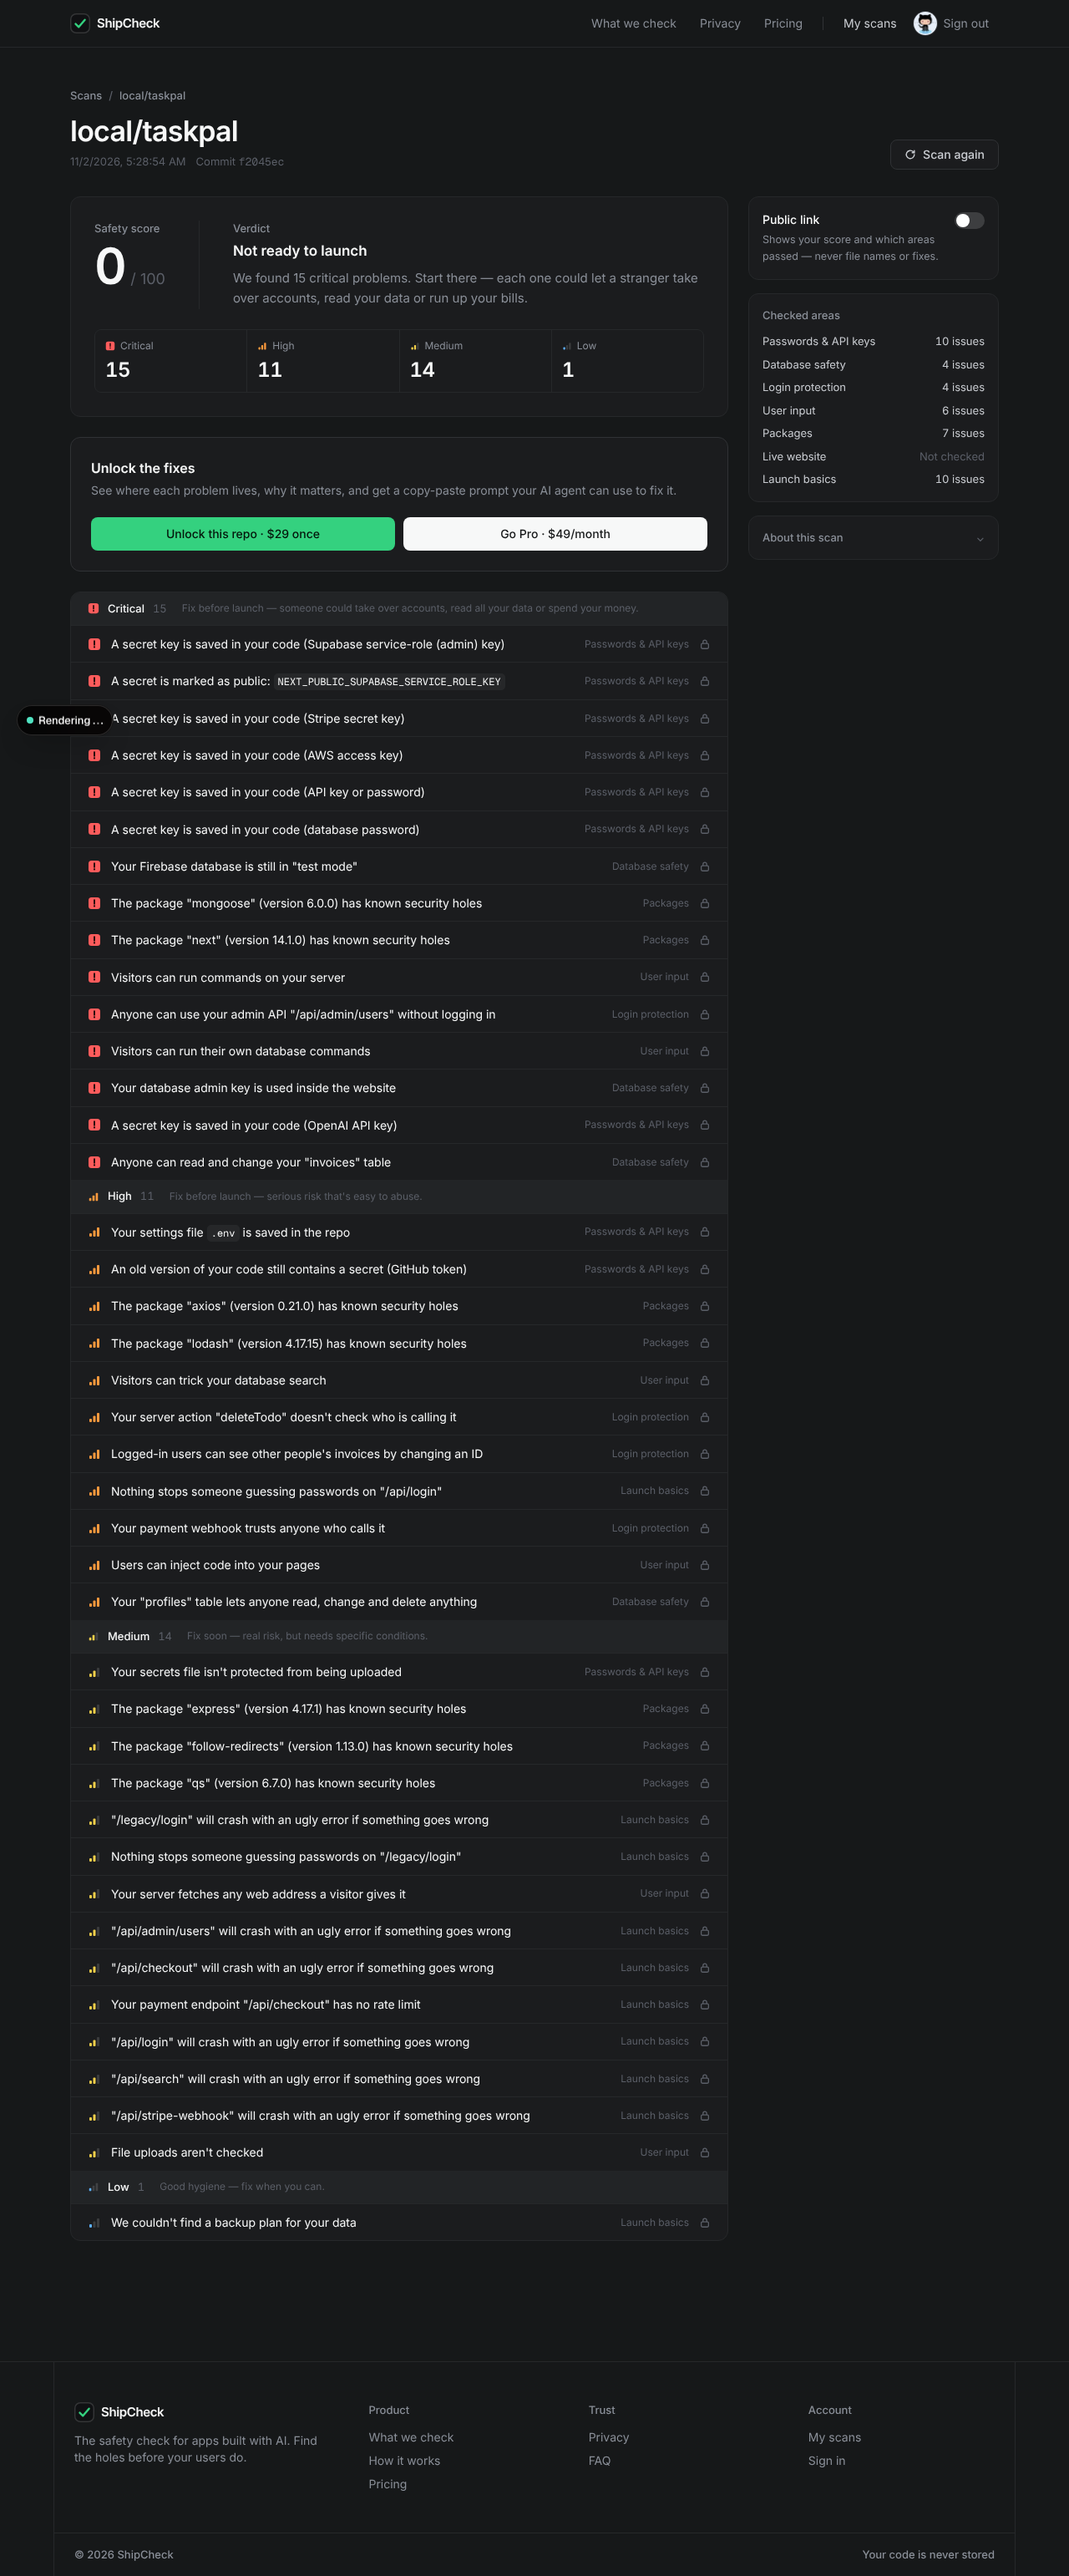
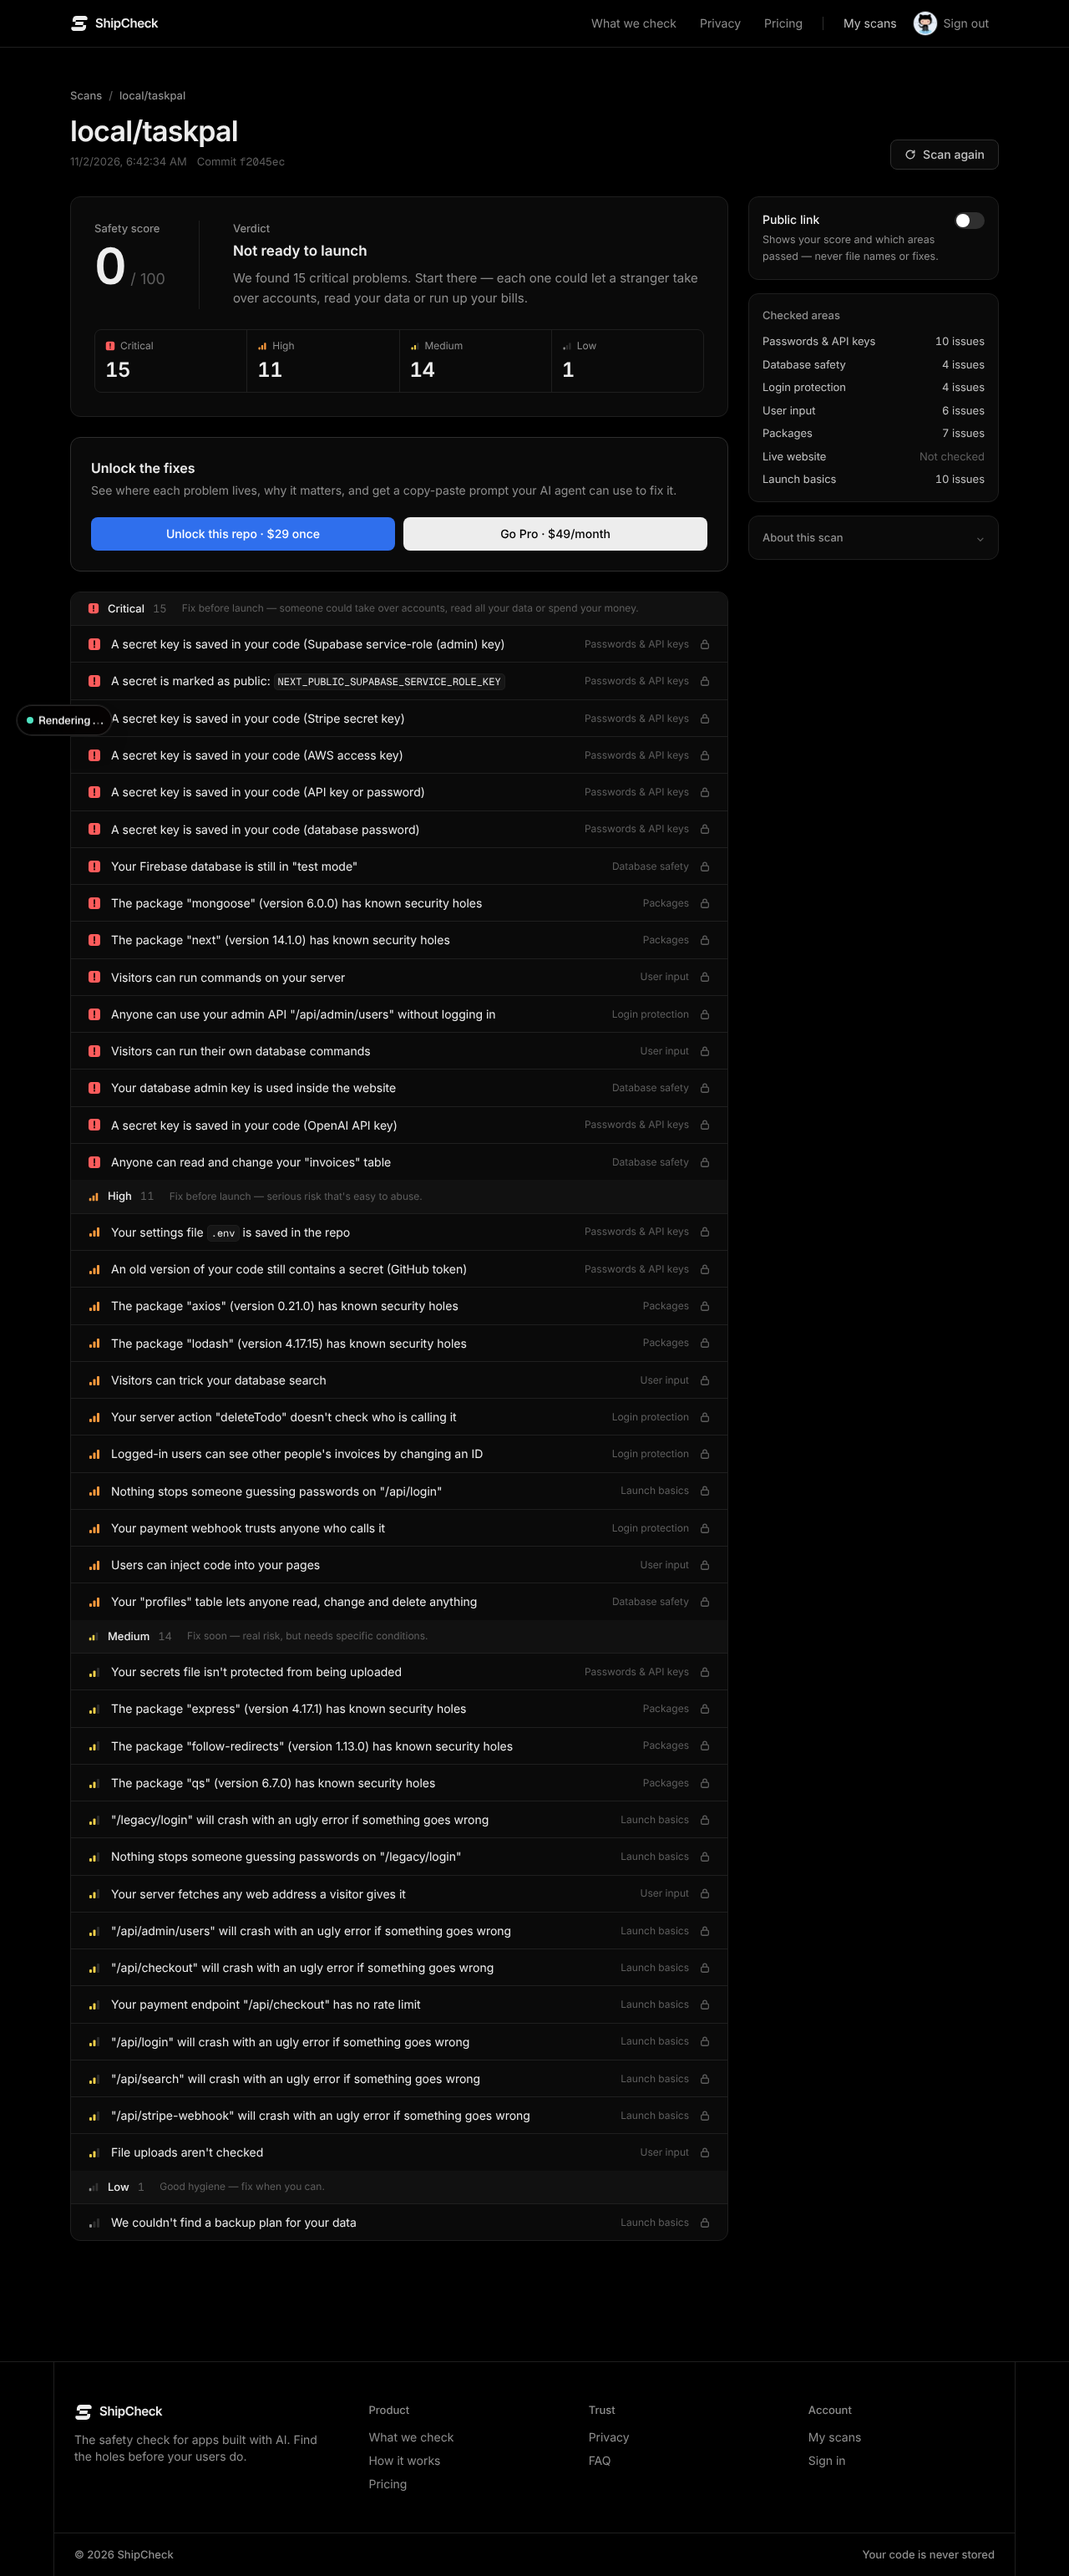
Black background with a cobalt accent
Canvas is now #000 with cards at #0a0a0a, nested boxes at #111 and
#1f1f1f hairlines (flush surfaces, no shadows). The green accent becomes
cobalt #2f6fed (white button text, 4.5:1) with #6ea1ff for focus rings;
Low severity turns neutral gray so it can't be mistaken for the accent.
Brand assets regenerated on black.

Claude-Session: https://claude.ai/code/session_018o5CNqjsf8rTVHTJeRiaFG

diff --git a/src/app/globals.css b/src/app/globals.css
@@ -6,30 +6,31 @@
  * severity colours mean severity. No decorative glows or gradients.
  */
 :root {
-  --canvas: #161819;
+  --canvas: #000000;
   color-scheme: dark;
 }
 
 @theme inline {
-  /* Surfaces sampled from Linear: cards sit almost flush with the page and are
-     separated by hairlines, not by contrast or shadow. Nested boxes go slightly
-     lighter, never darker. */
-  --color-canvas: #161819;
-  --color-panel: #1b1c1e;
-  --color-panel-2: #222426;
-  --color-panel-3: #2a2c2e;
-  --color-line: #26282a;
-  --color-line-2: #303235;
-  --color-ink: #f7f8f8;
-  --color-ink-2: #c9ccd1;
-  --color-ink-3: #8a8f98;
-  --color-ink-4: #5b5f68;
-  --color-signal: #34d17f;
-  --color-signal-2: #27b56b;
+  /* Black canvas; cards lift only a hair off it and are separated by hairlines
+     (the Vercel/Linear model). Nested boxes go slightly lighter, never darker.
+     Accent is cobalt blue — reserved for the primary action, focus and toggles. */
+  --color-canvas: #000000;
+  --color-panel: #0a0a0a;
+  --color-panel-2: #111111;
+  --color-panel-3: #171717;
+  --color-line: #1f1f1f;
+  --color-line-2: #2e2e2e;
+  --color-ink: #ededed;
+  --color-ink-2: #c2c2c2;
+  --color-ink-3: #8f8f8f;
+  --color-ink-4: #5e5e5e;
+  --color-accent: #2f6fed;
+  --color-accent-hover: #4380f5;
+  --color-accent-ink: #6ea1ff;
   --color-crit: #ff5c5c;
   --color-high: #ff9a3d;
   --color-med: #f2cf4a;
-  --color-low: #5eb0ff;
+  --color-low: #8f8f8f;
   --font-sans: var(--font-inter), ui-sans-serif, system-ui, sans-serif;
   --font-mono: var(--font-geist-mono), ui-monospace, SFMono-Regular, monospace;
 }
@@ -43,7 +44,7 @@ body {
   font-feature-settings: "cv11", "ss01", "ss03";
   -webkit-font-smoothing: antialiased;
 }
-::selection { background: rgb(255 255 255 / 0.18); color: #fff; }
+::selection { background: rgb(47 111 237 / 0.45); color: #fff; }
 
 /* ── Surfaces ─────────────────────────────────────────── */
 @utility card {
@@ -68,13 +69,13 @@ body {
 
 /* ── Controls ─────────────────────────────────────────── */
 @utility btn {
-  @apply inline-flex h-10 items-center justify-center gap-2 rounded-lg px-4 text-sm font-medium whitespace-nowrap transition duration-150 select-none focus:outline-none focus-visible:ring-2 focus-visible:ring-signal/60 focus-visible:ring-offset-2 focus-visible:ring-offset-canvas disabled:cursor-not-allowed disabled:opacity-50;
+  @apply inline-flex h-10 items-center justify-center gap-2 rounded-lg px-4 text-sm font-medium whitespace-nowrap transition duration-150 select-none focus:outline-none focus-visible:ring-2 focus-visible:ring-accent-ink/70 focus-visible:ring-offset-2 focus-visible:ring-offset-canvas disabled:cursor-not-allowed disabled:opacity-50;
 }
 @utility btn-white {
   @apply btn bg-ink text-canvas hover:bg-white;
 }
-@utility btn-signal {
-  @apply btn bg-signal text-[#04150b] hover:bg-[#4ddb8f];
+@utility btn-accent {
+  @apply btn bg-accent text-white hover:bg-accent-hover;
 }
 @utility btn-ghost {
   @apply btn border border-line-2 bg-panel text-ink-2 hover:bg-panel-2 hover:text-ink;

diff --git a/src/components/ShareControls.tsx b/src/components/ShareControls.tsx
@@ -29,7 +29,7 @@ export function ShareControls({ scanId, shareToken, initialPublic, appUrl, canBa
           <p className="mt-1 text-[12.5px] leading-relaxed text-ink-3">Shows your score and which areas passed — never file names or fixes.</p>
         </div>
         <button type="button" role="switch" aria-checked={isPublic} onClick={toggle} disabled={busy}
-          className={`relative mt-0.5 inline-flex h-5 w-9 shrink-0 rounded-full transition ${isPublic ? "bg-signal" : "bg-white/15"}`}>
+          className={`relative mt-0.5 inline-flex h-5 w-9 shrink-0 rounded-full transition ${isPublic ? "bg-accent" : "bg-white/15"}`}>
           <span className="sr-only">Make report public</span>
           <span className={`absolute top-0.5 h-4 w-4 rounded-full bg-white shadow transition-all ${isPublic ? "left-[18px]" : "left-0.5"}`} />
         </button>
@@ -57,7 +57,7 @@ function CopyRow({ value, label, copied, onCopy }: { value: string; label: strin
   return (
     <div className="flex items-center gap-1 rounded-lg border border-line bg-panel-2 py-1 pr-1 pl-2.5">
       <input readOnly value={value} aria-label={label} className="min-w-0 flex-1 bg-transparent font-mono text-[11.5px] text-ink-3 focus:outline-none" />
-      <button type="button" onClick={onCopy} className={`h-7 shrink-0 rounded-md px-2.5 text-[12px] font-medium transition ${copied ? "bg-signal text-[#04150b]" : "bg-white/[0.07] text-ink-2 hover:bg-white/[0.12]"}`}>{copied ? "Copied" : "Copy"}</button>
+      <button type="button" onClick={onCopy} className={`h-7 shrink-0 rounded-md px-2.5 text-[12px] font-medium transition ${copied ? "bg-accent text-white" : "bg-white/[0.07] text-ink-2 hover:bg-white/[0.12]"}`}>{copied ? "Copied" : "Copy"}</button>
     </div>
   );
 }

diff --git a/scripts/export-brand.ts b/scripts/export-brand.ts
@@ -4,12 +4,12 @@ import { mkdirSync, writeFileSync } from "node:fs";
 import { logoSvg } from "../src/components/Logo";
 
 mkdirSync("docs/brand", { recursive: true });
-writeFileSync("docs/brand/logo-white.svg", logoSvg("#f7f8f8") + "\n");
-writeFileSync("docs/brand/logo-black.svg", logoSvg("#161819") + "\n");
+writeFileSync("docs/brand/logo-white.svg", logoSvg("#ededed") + "\n");
+writeFileSync("docs/brand/logo-black.svg", logoSvg("#000000") + "\n");
 // App icon: mark at 60% on the brand background.
 writeFileSync("docs/brand/app-icon.svg",
-  logoSvg("#f7f8f8").replace('viewBox="0 0 32 32">', 'viewBox="0 0 32 32"><rect width="32" height="32" fill="#161819"/><g transform="translate(6.4 6.4) scale(.6)">').replace("</svg>", "</g></svg>") + "\n");
+  logoSvg("#ededed").replace('viewBox="0 0 32 32">', 'viewBox="0 0 32 32"><rect width="32" height="32" fill="#000000"/><g transform="translate(6.4 6.4) scale(.6)">').replace("</svg>", "</g></svg>") + "\n");
 // Favicon adapts to light/dark browser chrome.
 writeFileSync("src/app/icon.svg",
-  logoSvg("currentColor", "<style>svg{color:#161819}@media (prefers-color-scheme:dark){svg{color:#f7f8f8}}</style>") + "\n");
+  logoSvg("currentColor", "<style>svg{color:#000000}@media (prefers-color-scheme:dark){svg{color:#ededed}}</style>") + "\n");
 console.log("brand assets written");

diff --git a/src/components/FindingCard.tsx b/src/components/FindingCard.tsx
@@ -54,7 +54,7 @@ export function FindingCard({ f, categoryLabel, defaultOpen }: { f: ReportFindin
           <section className="min-w-0 overflow-hidden rounded-xl border border-line bg-panel-2">
             <div className="flex items-center justify-between gap-2 border-b border-line px-3.5 py-2">
               <h4 className="eyebrow truncate">Fix prompt <span className="hidden text-ink-4 sm:inline">· paste into your AI tool</span></h4>
-              <button type="button" onClick={copy} className={`flex h-7 shrink-0 items-center gap-1.5 rounded-md px-2.5 whitespace-nowrap text-[12px] font-medium transition ${copied ? "bg-signal text-[#04150b]" : "bg-ink text-canvas hover:bg-white"}`}>
+              <button type="button" onClick={copy} className={`flex h-7 shrink-0 items-center gap-1.5 rounded-md px-2.5 whitespace-nowrap text-[12px] font-medium transition ${copied ? "bg-accent text-white" : "bg-ink text-canvas hover:bg-white"}`}>
                 {copied ? <><CheckIcon className="h-3 w-3" /> Copied</> : "Copy prompt"}
               </button>
             </div>

diff --git a/src/app/pricing/page.tsx b/src/app/pricing/page.tsx
@@ -54,8 +54,8 @@ export default async function Pricing() {
             <div className="mt-10">
               {t.key === "free" && <Link href="/#scan" className="btn-ghost w-full">Start a free scan</Link>}
               {t.key === "repo" && (user
-                ? <Link href="/dashboard" className="btn-signal w-full">Pick a scanned repo to unlock</Link>
-                : <a href="/api/auth/github?next=/" className="btn-signal w-full">Scan first, then unlock</a>)}
+                ? <Link href="/dashboard" className="btn-accent w-full">Pick a scanned repo to unlock</Link>
+                : <a href="/api/auth/github?next=/" className="btn-accent w-full">Scan first, then unlock</a>)}
               {t.key === "pro" && (ent?.pro
                 ? <form action="/api/billing/portal" method="post"><button className="btn-ghost w-full">Manage subscription</button></form>
                 : <CheckoutButton plan="pro" signedIn={!!user} className="btn-white">Go Pro</CheckoutButton>)}

diff --git a/src/components/ui.tsx b/src/components/ui.tsx
@@ -34,7 +34,7 @@ export const SEV: Record<Severity, { label: string; color: string; text: string;
   critical: { label: "Critical", color: "#ff5c5c", text: "text-crit", bg: "bg-crit/10", ring: "ring-crit/25" },
   high: { label: "High", color: "#ff9a3d", text: "text-high", bg: "bg-high/10", ring: "ring-high/25" },
   medium: { label: "Medium", color: "#f2cf4a", text: "text-med", bg: "bg-med/10", ring: "ring-med/25" },
-  low: { label: "Low", color: "#5eb0ff", text: "text-low", bg: "bg-low/10", ring: "ring-low/25" },
+  low: { label: "Low", color: "#8f8f8f", text: "text-low", bg: "bg-low/10", ring: "ring-low/25" },
 };
 
 /** Linear-style priority glyph: filled bars for severity. */

diff --git a/src/components/CheckoutButton.tsx b/src/components/CheckoutButton.tsx
@@ -4,7 +4,7 @@
 import { useState } from "react";
 import { Spinner } from "./ScanForm";
 
-export function CheckoutButton({ plan, scanId, children, className = "btn-signal", signedIn = true }: { plan: "repo" | "pro"; scanId?: string; children: React.ReactNode; className?: string; signedIn?: boolean }) {
+export function CheckoutButton({ plan, scanId, children, className = "btn-accent", signedIn = true }: { plan: "repo" | "pro"; scanId?: string; children: React.ReactNode; className?: string; signedIn?: boolean }) {
   const [busy, setBusy] = useState(false);
   const [error, setError] = useState<string | null>(null);
   async function go() {

diff --git a/src/app/page.tsx b/src/app/page.tsx
@@ -257,7 +257,7 @@ Please:
           <h2 className="display mt-6 text-[36px] sm:text-[52px]">Check it before you launch it.</h2>
           <p className="mx-auto mt-5 max-w-md text-ink-3">A one-minute scan now costs less than a leaked database later.</p>
           <div className="mt-9 flex flex-wrap justify-center gap-3">
-            <a href="#scan" className="btn-signal !h-11 !px-5">Scan my app <ArrowRight /></a>
+            <a href="#scan" className="btn-accent !h-11 !px-5">Scan my app <ArrowRight /></a>
             <Link href="/pricing" className="btn-ghost !h-11 !px-5">See pricing</Link>
           </div>
         </div>

diff --git a/src/components/ScanProgress.tsx b/src/components/ScanProgress.tsx
@@ -41,7 +41,7 @@ export function ScanProgress({ scanId, initialSteps, repo, startedAt }: { scanId
     <div className="relative mx-auto max-w-2xl">
       <div className="window relative">
         <div className="h-px w-full bg-line">
-          <div className="h-px bg-signal transition-all duration-700" style={{ width: `${Math.max(3, pct)}%` }} />
+          <div className="h-px bg-accent transition-all duration-700" style={{ width: `${Math.max(3, pct)}%` }} />
         </div>
         <div className="flex items-center justify-between border-b border-line px-5 py-3">
           <div className="flex items-center gap-2.5">

diff --git a/src/components/ScanForm.tsx b/src/components/ScanForm.tsx
@@ -96,7 +96,7 @@ export function ScanForm({ signedIn, hasPrivateAccess, initialRepo = "", initial
         <p className="text-[11px] text-ink-4 md:hidden">
           {signedIn ? (hasPrivateAccess ? "Public & private repos" : "Public repos") : "Sign in with GitHub to scan"}
         </p>
-        <button type="submit" disabled={busy} className="btn-signal !h-9 shrink-0 !px-4">
+        <button type="submit" disabled={busy} className="btn-accent !h-9 shrink-0 !px-4">
           {busy ? <><Spinner /> Starting…</> : <>Scan my app</>}
         </button>
       </div>

diff --git a/src/app/layout.tsx b/src/app/layout.tsx
@@ -11,7 +11,7 @@ export const metadata: Metadata = {
   description: "A pre-launch safety audit for apps built with Lovable, Bolt, Cursor and Replit. Plain-English findings and copy-paste fix prompts for your AI agent.",
 };
 
-export const viewport: Viewport = { themeColor: "#08090a", colorScheme: "dark" };
+export const viewport: Viewport = { themeColor: "#000000", colorScheme: "dark" };
 
 export default function RootLayout({ children }: LayoutProps<"/">) {
   return (
